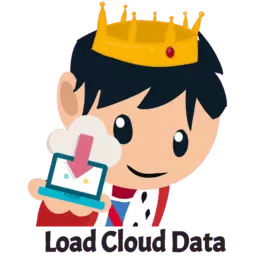
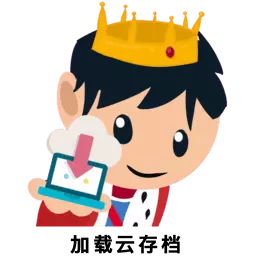
hh

Changed region(s): [[0.1562, 0.875, 0.9062, 1.0]]

diff --git a/chs.js b/chs.js
@@ -192,7 +192,7 @@ var cnItems = {
     "Kill Boss Enemy": "杀死 Boss 敌人",
     "Kill Normal Enemy": "杀死普通敌人",
     "King": "国王",
-    "King / Queen": "皇太后",
+    "King / Queen": "国王 / 皇后",
     "Kuro Idle Dungeon": "无尽的地牢",
     "Last Warning! All your data will be reset. Are you sure ?": "最后一次警告！您的所有数据都将被重置。你确定吗 ？",
     "Later": "之后",
@@ -1114,9 +1114,9 @@ var cnItems = {
     "Your Kingdom Name": "你的王国名",
     "Your Max Stage :  ": "你的最大阶段:",
     "Your pet adventure are finished.": "你的宠物冒险结束了。",
+    "Please input your email and password to connect with our cloud save so it will : \n*Allow you to play in multiple devices \n*Backup your game data to the cloud \n*Prevent data loss even if you lose / broken your device\n* You can join our leaderboard after joining the cloud\n\nIf you want to load save data in different device, just input same email and password": "请输入您的电子邮件和密码连接到我们的云保存，这样它将:\n*允许您在多个设备上玩\n*备份您的游戏数据到云\n*防止数据丢失，即使您丢失/损坏您的设备\n*您可以加入我们的排行榜后加入云\n\ n如果您想在不同的设备上加载保存数据，只需输入相同的电子邮件和密码",
     "": "",
-    "": "",
-    "": "",
+    "You must fill the email": "你必须填写电子邮件",
     "": "",
     "": "",
     "": "",
